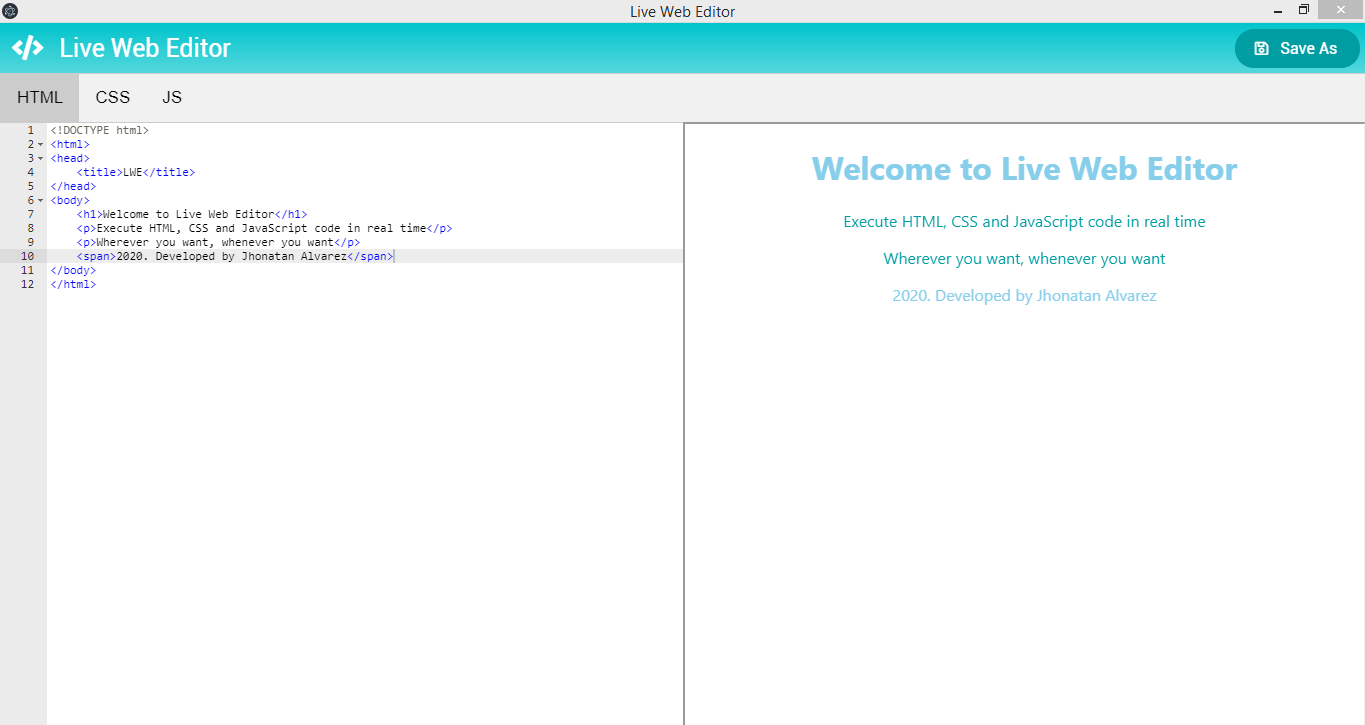
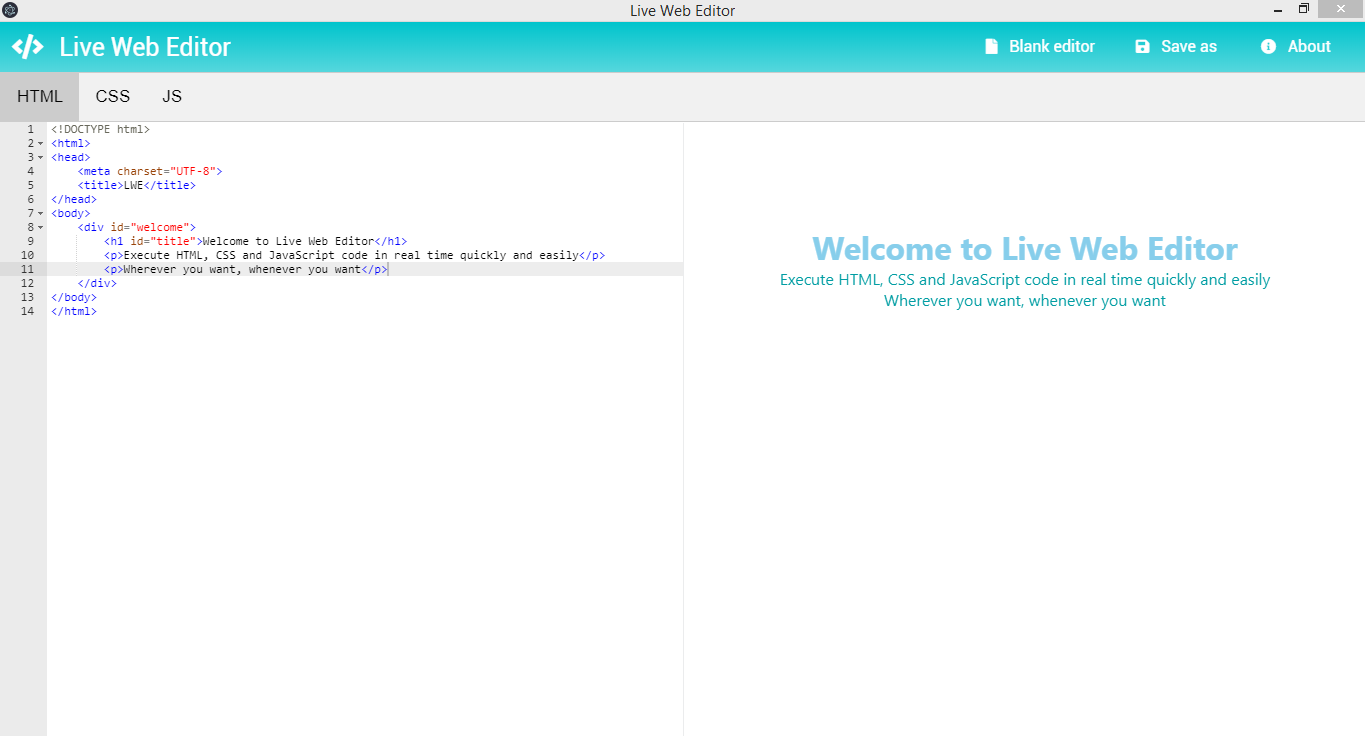
'Blank editor' functionality added, README.md modified and demo.png updated

diff --git a/model/editor.js b/model/editor.js
@@ -171,6 +171,31 @@ class Editor {
 
     }
 
+    // Set blank editor method
+    setBlankEditor() {
+        
+        // Setting content for HTML editor
+        let htmlDoc = '<!DOCTYPE html>\n<html>\n<head>\n\t<meta charset="UTF-8">\n\t<title>LWE</title>\n</head>\n<body>\n\t\n</body>\n</html>'
+        this.editorHTML.setValue(htmlDoc)
+        this.editorHTML.gotoLine(8, 2)
+        this.editorHTML.focus()
+
+        // Setting content for CSS editor
+        this.editorCSS.setValue('')
+        this.editorCSS.gotoLine(1)
+        this.editorCSS.focus()
+        
+
+        // Setting content for JS editor
+        this.editorJS.setValue('')
+        this.editorJS.gotoLine(1)
+        this.editorJS.focus()
+
+        // Load changes
+        this.type()
+
+    }
+
 }
 
 module.exports = Editor

diff --git a/main.js b/main.js
@@ -22,7 +22,7 @@ function createWindow () {
   // maximize the application window
   mainWindow.maximize();
   // Open the DevTools.
-  mainWindow.webContents.openDevTools()
+  // mainWindow.webContents.openDevTools()
 
   // Displays the window once all components have loaded
   mainWindow.once('ready-to-show', () => {

diff --git a/controller/editorCtrl.js b/controller/editorCtrl.js
@@ -137,7 +137,7 @@ class EditorCtrl {
 
         // Event for "Blank editor" button
         document.getElementById('blankEditor').addEventListener('click', () => {
-            console.log('Click on blank editor button!')
+            this.Editor.setBlankEditor()
         })
     }
 

diff --git a/README.md b/README.md
@@ -1,6 +1,7 @@
 # Live Web Editor
-Live Web Editor is a simple project that seeks to provide a simple and practical tool to all those who find themselves learning the basic languages of web technologies `(HTML, CSS and JS)`.
-Its use is simple, since with each key that we press in the editor, it will be executed instantly by the real-time viewer that is integrated in the application. This except for the `JavaScript editor block`, which is executed once the `[Enter]` key is pressed. This in order to have more comfort when executing the `scripts`, since it would be very annoying if letter by letter were to run executing the entered code. Different case for `HTML` and` CSS` that does need to be executed instantly on each code letter we write.
+Live Web Editor is a project that offers a simple, fast and practical tool to all those who develop in/or are learning the basic languages of web technologies `(HTML, CSS and JS)`.
+Its use is simple, since with each key that we press in the editor, it will be instantly executed by the real-time viewer that is integrated into the application.
+It also contains an export menu both to `multiple files` and to a `single file`, along with the option to quickly start a code from scratch.
 
 ![demo.jpg](https://github.com/Jdalvarezo/Live-Web-Editor/blob/master/demo.png)
 
